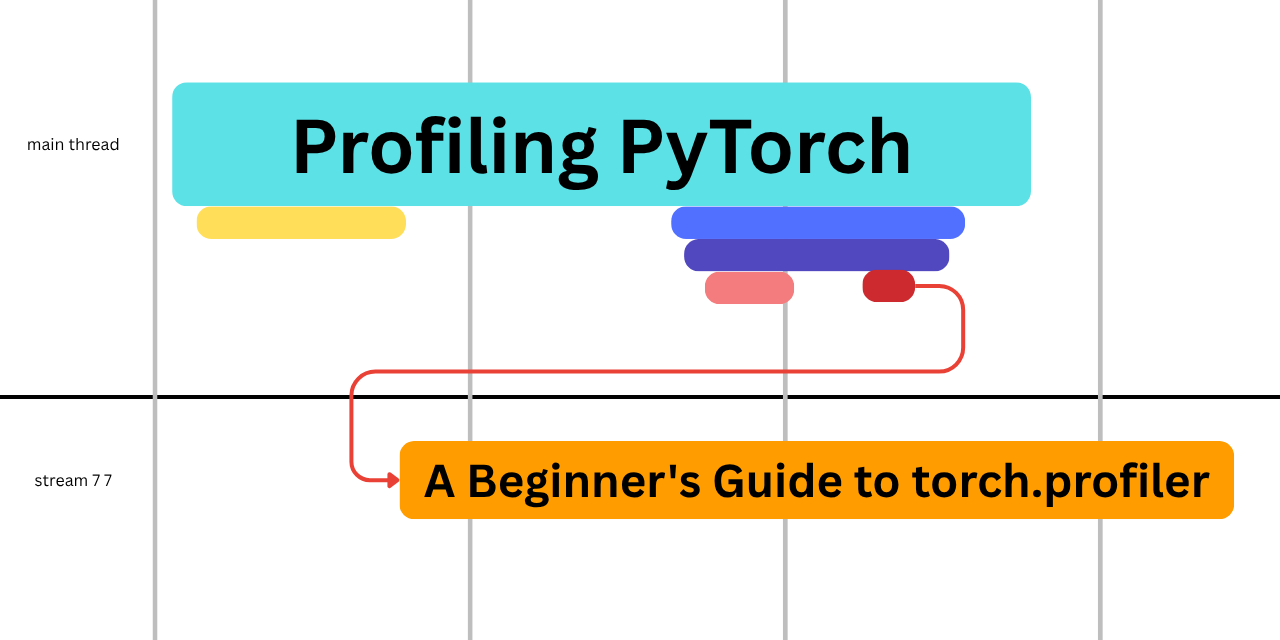
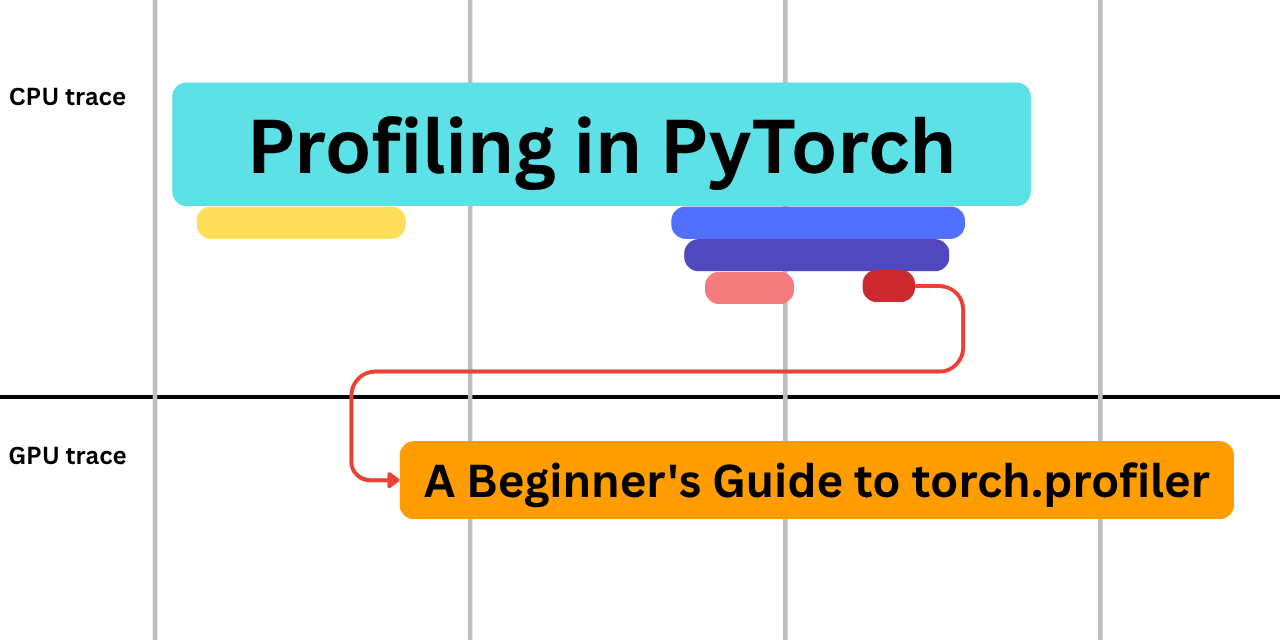
chore: redo thumbnail, refactor introduction, add profiler table screenshots

diff --git a/torch-profiler.md b/torch-profiler.md
@@ -1,88 +1,125 @@
 ---
-title: "Profiling PyTorch: A Beginner's Guide to torch.profiler"
+title: "Profiling in PyTorch: A Beginner's Guide to torch.profiler"
 thumbnail: /blog/assets/torch-profiler/thumbnail.png
 authors:
   - user: ariG23498
+  - user: sayakpaul
+  - user: sergiopaniego
 ---
 
-# Profiling PyTorch: A Beginner's Guide to torch.profiler
+# Profiling in PyTorch: A Beginner's Guide to torch.profiler
 
 ![Thumbnail of the blog post](assets/torch-profiler/thumbnail.png)
 
-Have you ever wondered what happens under the hood of a model's forward call? To quench that thirst, you might find yourself reading the `modeling_<model_name>.py` files in [transformers](https://github.com/huggingface/transformers), looking at the PyTorch operations, and then wondering how those kernels are dispatched on the GPU, and how they actually run.
+Have you ever wondered what goes on under the hood of CPU and GPU your model runs on? To quench that thirst, you might find yourself reading the `modeling_<model_name>.py` files in [transformers](https://github.com/huggingface/transformers), looking at the PyTorch operations, and then wondering how those kernels are dispatched, and how they actually run.
 
 Working at Hugging Face has its own perks, you are surrounded by smarter people all the time. Upon talking to my colleagues about my motivation, I was quickly pointed to the "skill of profiling". If I was given a dollar for every time I was advised to work on profiling, I would have 3 dollars, because I had asked [Sayak Paul](https://huggingface.co/sayakpaul), [Rémi Ouazan Reboul](https://huggingface.co/ror), and [Ferdinand Mom](https://huggingface.co/3outeille).
 
-In this essay, we document "how to profile in PyTorch" from a beginner's point of view. You need no prerequisites to go through this, apart from knowing basic PyTorch. We will try to make this as educational as possible, so this can be treated as a leisurely read with some "Aha!" moments.
+This is the opening post of **Profiling in PyTorch**, a series where we slowly build up the skill of reading profiler traces, starting from the simplest possible operation and gradually working our way up to more advanced workloads, involving large models.
 
-This is the opening post of **Profiling PyTorch**, a series where we slowly build up the skill of reading profiler traces, starting from the simplest possible operation and gradually working our way up to more advanced workloads, involing large models.
+In this essay, we document "How to profile in PyTorch" from a beginner's point of view. You need no prerequisites to go through this, apart from knowing basic PyTorch. We will try to make this as educational as possible, so this can be treated as a leisurely read with some "Aha!" moments.
+
+> [!NOTE]
+> Here is the entire script that we use for the essay: [`01_matmul_add.py`](https://huggingface.co/datasets/ariG23498/profiling-pytorch/blob/main/01_matmul_add.py). It is adviced to open this script on a seperate tab and walk through the code step by step.
 
 ## The matrix multiplication and addition operation
 
 As correctly [quipped by Dr. Sara Hooker](https://youtu.be/7knwihgj0fU?si=uvzGH-J9bsCHP4Nn&t=2199), like we are primarily made up of water, Deep Neural Networks are primarily made up of matrix multiplies. As fundamental as they are, it would be a shame to start our profiling journey with anything else.
-
-> [!NOTE]
-> Here is the entire script that we use for the essay: [`01_matmul_add.py`](https://huggingface.co/datasets/ariG23498/profiling-pytorch/blob/main/01_matmul_add.py)
 
 ```py
 def fn(x, w, b):
   return torch.add(torch.matmul(x, w), b)
 ```
 
-> As you have correctly noticed, we have added a matrix addition to the matrix multiplication to mimic how weights and biases interact in a neuron. This addition (pun intended) will help us work with compilations better.
+> The matrix addition along with the matrix multiplication mimics how weights and biases interact in a neuron. This addition (pun intended) will help us understand how it paves the way for compilation [later in the essay](#lets-see-some-torch-compile-at-work).
 
 To profile, we will be using the `torch.profiler` module. The steps involved are:
 
-1. Have the algorithm ready (here `def fn`, which wraps the matrix multiplication and addition)
-2. Annotate the algorithm. The `record_function` annotates our function as `matmul_add`
-3. Wrap the code with the `torch.profiler.profile` context manager
-4. Export the profile
+1. Have the [algorithm ready](https://huggingface.co/datasets/ariG23498/profiling-pytorch/blob/main/01_matmul_add.py#L26-L27) (here `def fn`, which wraps the matrix multiplication and matrix addition)
+2. [Annotate](https://huggingface.co/datasets/ariG23498/profiling-pytorch/blob/main/01_matmul_add.py#L32) the algorithm. While this is completely optional, we recommend doing this. The `record_function` annotates our function as `matmul_add`, which will be easy to navigate in the traces (as we note later)
+```py
+def step():
+  with torch.profiler.record_function("matmul_add"):
+    return fn(x, w, b)
+```
+3. Wrap the code with the `torch.profiler.profile` [context manager](https://huggingface.co/datasets/ariG23498/profiling-pytorch/blob/main/01_matmul_add.py#L53-L62)
+```py
+  with torch.profiler.profile(
+    activities=[
+        torch.profiler.ProfilerActivity.CPU,  # the cpu activities
+        torch.profiler.ProfilerActivity.CUDA, # the gpu activities
+    ],
+  ) as prof:
+    for _ in range(5):
+      step()
+      prof.step()
+```
+4. Export the [profile](https://huggingface.co/datasets/ariG23498/profiling-pytorch/blob/main/01_matmul_add.py#L70)
+```py
+prof.export_chrome_trace(trace_path)
+prof.key_averages().table(sort_by="cuda_time_total", row_limit=15)
+```
 
 The profiler exports two distinct artifacts:
 
-1. The profiler table: Provides the statistical summary of the algorithm. It answers "What is expensive". This becomes really helpful to figure out hotspots in the algorithm.
+1. The profiler table: Provides the statistical summary of the algorithm. It answers "What is expensive". This becomes really helpful to figure out hotspots. A hotspot would be events that take the most amount of time, can be a bottleneck of the pipeline, or an event that is triggered a lot of times.
 2. The profiler trace: Provides the temporal execution view. Answers "When and Why it happened", depicting the activities taking place on the CPU and the GPU. This is helpful when we want to investigate the kernel(s) that were launched, any delays in launching them, any overlap between CPU and GPU activities, etc.
 
-Let's see the two in action with our first execution.
+Let's see the two in action with our first execution. ([Here is the entire `01_matmul_add.py` script](https://huggingface.co/datasets/ariG23498/profiling-pytorch/blob/main/01_matmul_add.py))
+
+> [!NOTE]
+> It is recommended to run this script on a machine with a GPU.
+
 ```bash
-uv run 01_matmul_add.py
+uv run 01_matmul_add.py --size 64
 ```
 
-If you run the above you will find a folder `traces/01_matmul_add` with the two artifacts:
-```
+If you run the above script (on a GPU machine) you will find a folder `traces/01_matmul_add` with the two artifacts:
+
+```bash
 64_bf16_cold_eager.json
 64_bf16_cold_eager.txt
 ```
 
 The `.txt` file holds the profiler table. Upon opening the file, one would be greeted with a big table with the first column consisting of the events that were triggered inside the scope of profile.
 
-The other columns are related to the time the event takes on the CPU or GPU or any other device(s) specified in `activities` within `torch.profiler.profile`. Look at which events take the most amount of time, and try to intuitively understand if that event should in fact take that time. It is also important to look at the column "# of Calls" which dictates how many times the event was triggered.
+| ![Profiler table for matmul add algorithm on 64 sized matrices](https://huggingface.co/datasets/huggingface/documentation-images/resolve/main/blog/torch-profiler/profile-table-64.png) |
+| :--: |
+| Figure X: Profiler table for matmul add algorithm on 64 sized matrices|
+
+The other columns as shown in Figure X are related to the time the event takes on the CPU or GPU or any other device(s) specified in `activities` within `torch.profiler.profile`. Look at which events take the most amount of time, and try to intuitively understand if that event should in fact take that time. It is also important to look at the column "# of Calls" which dictates how many times the event was triggered.
 
 While we are at it, let's also talk about "Self CPU/CUDA" vs "CPU/CUDA total". The "Self" columns measure time spent only inside the event itself, excluding its children. The "total" columns include the event and all of its children together. So if you look at the "CPU total" of `matmul_add`, it consists of the time it took on self plus the children events it triggered. This is an important demarcation to note.
 
 If you look at the last two lines out of the table you would notice that the profiler tells us that
 
 ```bash
-Self CPU time total: 2.304ms
-Self CUDA time total: 20.640us
+Self CPU time total: 2.314ms
+Self CUDA time total: 23.104us
 ```
 
-The CPU time is in `ms` while the GPU time is in `us`. To put things in perspective, we are spending ~112x more time than the GPU on the CPU.  The GPU stays idle most of the time, which is an immediate red flag. This is a textbook case of the algorithm being "overhead bound". In simple words, the launch overheads on the CPU side are much larger than the work the kernel does on the GPU. The easiest way to move out of the "overhead bound" regime is to make a bigger matrix multiplication.
+The CPU time is in `ms` while the GPU time is in `us`. To put things in perspective, we are spending ~112x more time than the GPU on the CPU.  The GPU stays idle most of the time, which is an immediate red flag. This is a textbook case of the algorithm being overhead-bound. In simple words, the launch overheads on the CPU side are much larger than the work the kernel does on the GPU. The easiest way to move out of the overhead-bound regime is to make a bigger matrix multiplications.
 
 ```bash
 uv run 01_matmul_add.py --size 4096 
 ```
 
+| ![Profiler table for matmul add algorithm on 4096 sized matrices](https://huggingface.co/datasets/huggingface/documentation-images/resolve/main/blog/torch-profiler/profile-table-4096.png) |
+| :--: |
+| Figure X: Profiler table for matmul add algorithm on 4096 sized matrices |
+
+The last two lines (as shown in Figure X) is:
+
 ```bash
-Self CPU time total: 4.911ms
-Self CUDA time total: 5.045ms
+Self CPU time total: 4.908ms
+Self CUDA time total: 4.495ms
 ```
 
-We have materialized more GPU time just by increasing the size of the matrix multiplications. If you open the table you would also notice that the most CUDA time is now taken by `ampere_bf16_s16816gemm_..` and not by `matmul_add`. This means that we were indeed able to move from overhead bound to compute bound.
+Both the time are in ms, which means we have materialized more GPU time just by increasing the size of the matrix multiplications. If you look at Figure X you would also notice that the most CUDA time is now taken by `ampere_bf16_s16816gemm_..` and not by `matmul_add`. This means that we were indeed able to move from overhead bound to compute bound.
 
 We now move into visualising the dispatch chain, which lives inside the `.json` artifacts. You can upload them to [Perfetto UI](https://ui.perfetto.dev) and see the traces, or you can use `uvx trace-util traces -b traces` to generate the Perfetto links directly.
 
-## 64×64 traces
+## 64x64 traces
 
 [Perfetto Trace for 64x64](https://ui.perfetto.dev/#!/?url=https://huggingface.co/buckets/ariG23498/traces/resolve/01_matmul_add/64_bf16_cold_eager.json)
 
@@ -103,7 +140,7 @@ In Figure 1, we see the profiler trace for the matrix multiplication and additio
 | Figure 2: The CPU and GPU lanes of a PyTorch profiler trace |
 
 There are two lanes, one for the CPU activity and one for the GPU activity, as shown in Figure 2. In the CPU lane one would notice three profile steps. This comes from the `schedule`.
-```python
+```py
 schedule = torch.profiler.schedule(wait=1, warmup=1, active=3, repeat=1)
 ```
 The `wait` skips noisy initializations, `warmup` runs through the profiler without recording, and `active` is what shows up in trace.